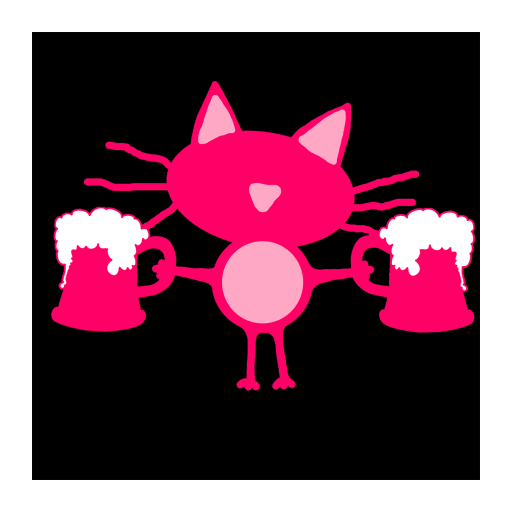
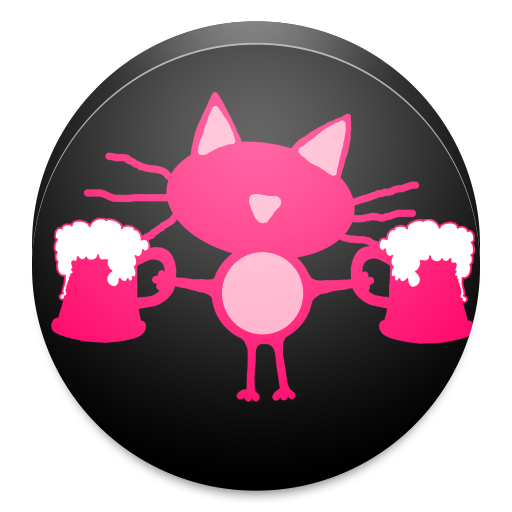
Ladescreen + Anpassungen drawable/Cat

diff --git a/app/src/main/java/com/example/floriandodegge/spinsecat/Startscreen.java b/app/src/main/java/com/example/floriandodegge/spinsecat/Startscreen.java
@@ -1,0 +1,32 @@
+package com.example.floriandodegge.spinsecat;
+
+import android.app.ActionBar;
+import android.app.Activity;
+import android.content.Intent;
+import android.os.Bundle;
+import android.view.View;
+
+/**
+ * Created by FlorianDodegge on 07.02.15.
+ */
+public class Startscreen extends Activity {
+
+    @Override
+    protected void onCreate(Bundle savedInstanceState) {
+        super.onCreate(savedInstanceState);
+        setContentView(R.layout.activity_startscreen);
+
+        ActionBar actionBar = getActionBar();
+        actionBar.hide();
+
+    }
+
+    public void loslegen(View Buttonclick) {
+
+        Intent in = new Intent(this, MainActivity.class);
+        startActivity(in);
+
+
+    }
+
+}
